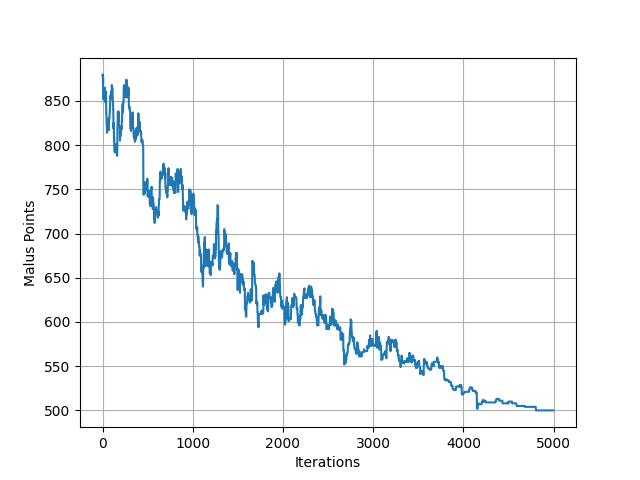
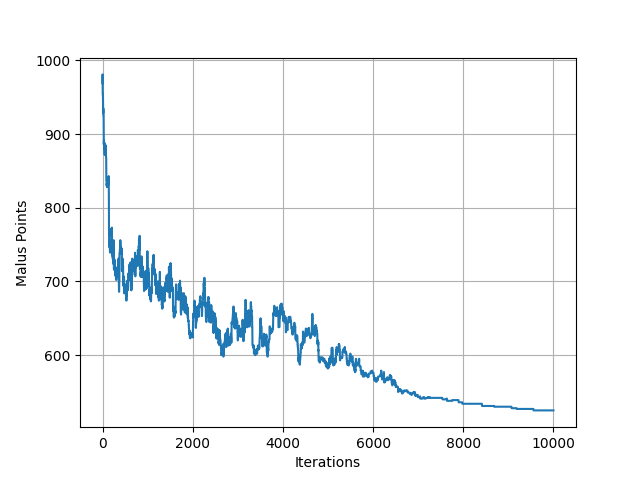
final touches

diff --git a/src/algorithm/sim_annealing.py b/src/algorithm/sim_annealing.py
@@ -15,7 +15,7 @@ def start_annealing(
     room_time_slots: list,
     students: list[Student],
     rooms: list[Room],
-    starting_temp: int,
+    starting_temp: float,
 ) -> list[int]:
     """
     This function calls the simulated_annealing() function. This function keeps on
@@ -38,10 +38,7 @@ def start_annealing(
     same_value_count = 0
     old_points = float("inf")
 
-    threshold = 2000
-    iterations = 5000
-
-    current_iteration = 0
+    iterations = 10000
 
     for i in range(iterations):
         new_points = simulated_annealing(
@@ -55,21 +52,6 @@ def start_annealing(
         old_points = new_points
         malus_points.append(new_points)
 
-    # # Continue hillclimbing untill no improvement is found in N steps
-    # while same_value_count < threshold:
-    #     new_points = simulated_annealing(
-    #         courses, room_time_slots, students, rooms, starting_temp, current_iteration
-    #     )
-
-    #     if old_points == new_points:
-    #         same_value_count += 1
-    #     else:
-    #         same_value_count = 0
-
-    #     old_points = new_points
-    #     malus_points.append(new_points)
-    #     current_iteration += 1
-
     return malus_points
 
 
@@ -78,7 +60,7 @@ def simulated_annealing(
     room_time_slots: list,
     students: list[Student],
     rooms: list[Room],
-    starting_temp: int,
+    starting_temp: float,
     current_iteration: int,
     iterations
 ) -> int:
@@ -120,7 +102,6 @@ def simulated_annealing(
 
     # Check if the new schedule is better, if worse, revert back
     if new_points > old_points:
-        # temp = starting_temp * 0.9995**current_iteration
         temp = starting_temp - (starting_temp/iterations) * current_iteration
         accept_chance = 2 ** ((old_points - new_points) / temp)
 

diff --git a/main.py b/main.py
@@ -90,21 +90,10 @@ def main(output: str, alg_type: str, n_simulations: int):
 
     print(f"best timetable found: {best_points} malus points")
 
-    plt.plot(data)
+    df = pd.DataFrame(best_time_table)
+    df.columns = ["Student", "Course"]
 
-    plt.xlabel("Iterations")
-    plt.ylabel("Malus Points")
-    plt.grid(which="both")
-
-    plt.savefig(output)
-
-    # df = pd.DataFrame(data)
-    # df.to_csv(output)
-
-    # df = pd.DataFrame(best_time_table)
-    # df.columns = ["Student", "Course"]
-
-    # df.to_csv(output)
+    df.to_csv(output)
 
 
 def run_algorithm(algr, verbose=False):
@@ -186,7 +175,7 @@ def run_algorithm(algr, verbose=False):
             )
         elif algr == "simulated_annealing":
             malus_points_progress = start_annealing(
-                courses_sorted, available_rooms, students, rooms, 5.5
+                courses_sorted, available_rooms, students, rooms, 5
             )
 
     if not is_valid_schedule(students, rooms):
